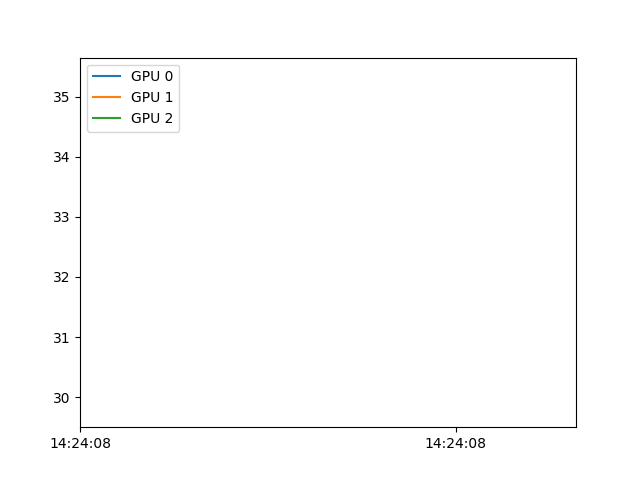
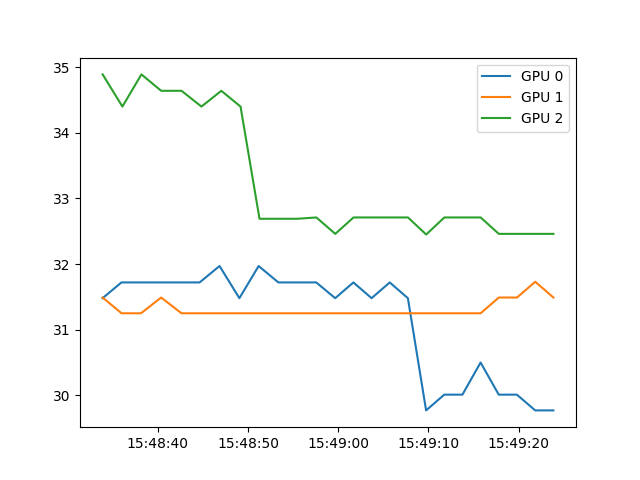
improve experiment script

diff --git a/energy_benchmark.py b/energy_benchmark.py
@@ -1,6 +1,6 @@
 import torch
 import numpy as np
-from numpy import empty
+from numpy import empty, Inf
 import scipy.stats
 from gpu_energy.power_info import EnergyMonitor
 import synthetic_opu
@@ -8,15 +8,27 @@ from synthetic_opu import OPUModulePyTorch
 import time
 dtype = torch.FloatTensor
 
-period = 5 # How often should we read (instant) power usage in seconds.
+period = 2 # How often should we read (instant) power usage in seconds.
 e = EnergyMonitor(period=period)
 
-repetitions = 30 # repete the hole experiment and take the mean
+repetitions = 3 # repeat the hole experiment and take the mean
 
+
+results_dir = "gpu_energy/results/"
+DEVICE = 1 # we handle divices at high level cause we read nvidia-smi command to get power info
+torch.cuda.set_device(DEVICE)
+gpu_device = torch.cuda.current_device()
+ngpus_torch = torch.cuda.device_count()
+
+print("PyTorch detects "+str(ngpus_torch)+" GPUs.")
+print("Experiment on GPU "+str(gpu_device)+".")
+
+if e._ngpus != ngpus_torch:
+    print("Pytorch doesn't see all GPUs. The GPUs number in EnergyMonitor corresponds to what nvidia-smi gives.")
 
 n = 320 # Number of points to be projected
-d_list = [100,32000] # Their dimension
-p_list = [100,32000] # Their targeted dimension
+d_list = [100,320,1000,3200,10000,32000,100000] # Their dimension
+p_list = [100,320,1000,3200,10000,32000,100000] # Their targeted dimension
 
 r = .5 # proportion of ones in the data
 
@@ -28,22 +40,71 @@ P_gpu = empty((len(d_list),len(p_list)))
 
 t_cpu = empty((len(d_list),len(p_list)))
 
+cpu_limit = 5
 
 for i in range(len(d_list)):
-    d = d_list[0]
+    d = d_list[i]
+    print("d = "+str(d),end=".\n")
+    print("Sampling x...", end = " ")
+    x = torch.distributions.Binomial(1,r).sample((n,d)).type(dtype)
+    print("Done.")
     for j in range(len(p_list)):
-        x = torch.distributions.Binomial(1,r).sample((n,d)).type(dtype)
+        print("Adding x")
+        x = x+0.0*(100*i+10000*j)
+        print("Done")
         p = p_list[j]
-        gpu_obj = OPUModulePyTorch( d, p, initial_log_scale='auto', tunable_kernel=False, dtype=dtype)
-        e1 = e.energy()
+        print("Building OPU object...")
+        obj = OPUModulePyTorch( d, p, initial_log_scale='auto', tunable_kernel=False, dtype=dtype).to("cpu")
+        print("Done.", end = " ")
+        x = x.to("cpu")
+        if i+j<cpu_limit:
+            e1 = e.energy()
+            for repe in range(repetitions):
+                _ = obj(x.detach())
+            e2 = e.energy()
+            t_cpu[i,j] = (e2-e1).duration()
+        else:
+            t_cpu[i,j] = Inf
+        x = x.to(gpu_device)
+        obj.to(gpu_device)
+        e3 = e.energy()
         for repe in range(repetitions):
-            _ = gpu_obj(x+0.0*(repe+100*i+10000*j))
-        e2 = e.energy()
-        e_gpu = (e2-e1).select_gpu("0")
-        t_gpu[i,j] = e_gpu.duration()
-        E_gpu[i,j] = e_gpu.consumption()
-        
+            _ = obj(x.detach())
+        e4 = e.energy()
+        e_gpu = (e4-e3).select_gpu(str(DEVICE)) # nvdia-smi number
+        t_gpu[i,j] = e_gpu.duration()/repetitions    # take the mean
+        E_gpu[i,j] = e_gpu.consumption()/repetitions
+        P_gpu[i,j] = E_gpu[i,j]/t_gpu[i,j]
+        if j< len(p_list)-1 :
+            print("p = "+str(p_list[j]),end=", ")
+        else:
+            print("p = "+str(p_list[j]),end=".\n")
+
+
+print("CPU time:")
+print(t_cpu)
+print("GPU time:")
 print(t_gpu)
+print("GPU energy (J):")
 print(E_gpu)
+print("GPU average power (W):")
+print(P_gpu)
 
 
+
+
+t,p,gpu = e.to_numpy()
+
+
+import matplotlib
+matplotlib.rcParams['timezone'] = 'Europe/Paris'
+import matplotlib.pyplot as plt
+ 
+for i in range(len(gpu)):
+    plt.plot(t[i,:],p[i,:],label="GPU "+gpu[i])
+plt.legend()
+plt.savefig(results_dir+"consumption.png")
+
+np.save(results_dir+"cpu_time",t_cpu) 
+np.save(results_dir+"gpu_time",t_gpu) 
+np.save(results_dir+"gpu_energy",E_gpu) 

diff --git a/gpu_energy/power_info.py b/gpu_energy/power_info.py
@@ -109,7 +109,7 @@ class EnergyMonitor():
             dfi = newpd[newpd["gpu"]==gpu_names[i]]
             n = len(dfi.index)
             if i>0 and n!=nmax:
-                st = "The number of measurements ("+str(n)+") for GPU "+gpu_names[i]+" is different from the ones we have seen so far "+str(nmax)+" while parsing self.pandas() with GPU(s) "
+                st = "The number of measurements ("+str(n)+") for GPU "+gpu_names[i]+" is different from the ones we have seen so far ("+str(nmax)+") while parsing self.pandas() with GPU(s) "
                 for j in range(i):
                     st+= gpu_names[j]+", "
                 st= st[:-2]+"."
@@ -124,22 +124,24 @@ class EnergyMonitor():
     def to_numpy(self):
         if self._ngpus==0:
             return empty((0,0),dtype='datetime64[ms]'),empty((0,0)),[]
-        
-
         ntries = 6
         delay  = .1
 
         for j in range(ntries):
             restart=False
             same, n, ngpus, dfs, gpu_names = self.analized_pandas()
-            if not same:
-                print("Count of GPUs change. Waiting "+str(delay)+" s to see if the subprocess is writting something...")
-                restart=True
-                sleep(delay)
+            if not same or ngpus!=self._ngpus:
+                if j<ntries-1:
+                    print("Waiting "+str(delay)+" s to see if the subprocess is writting something... (doesn't affect the measurments).")
+                    restart=True
+                    sleep(delay)
+                else:
+                    print("Waiting did not pay off. Reuse last measurments.")    
+            elif j>0:
+                print("Waiting paid off.")
             if not restart:
                 break
         
-
         t = empty((ngpus,n),dtype='datetime64[ms]')
         p = empty((ngpus,n))
         for i in range(ngpus):
